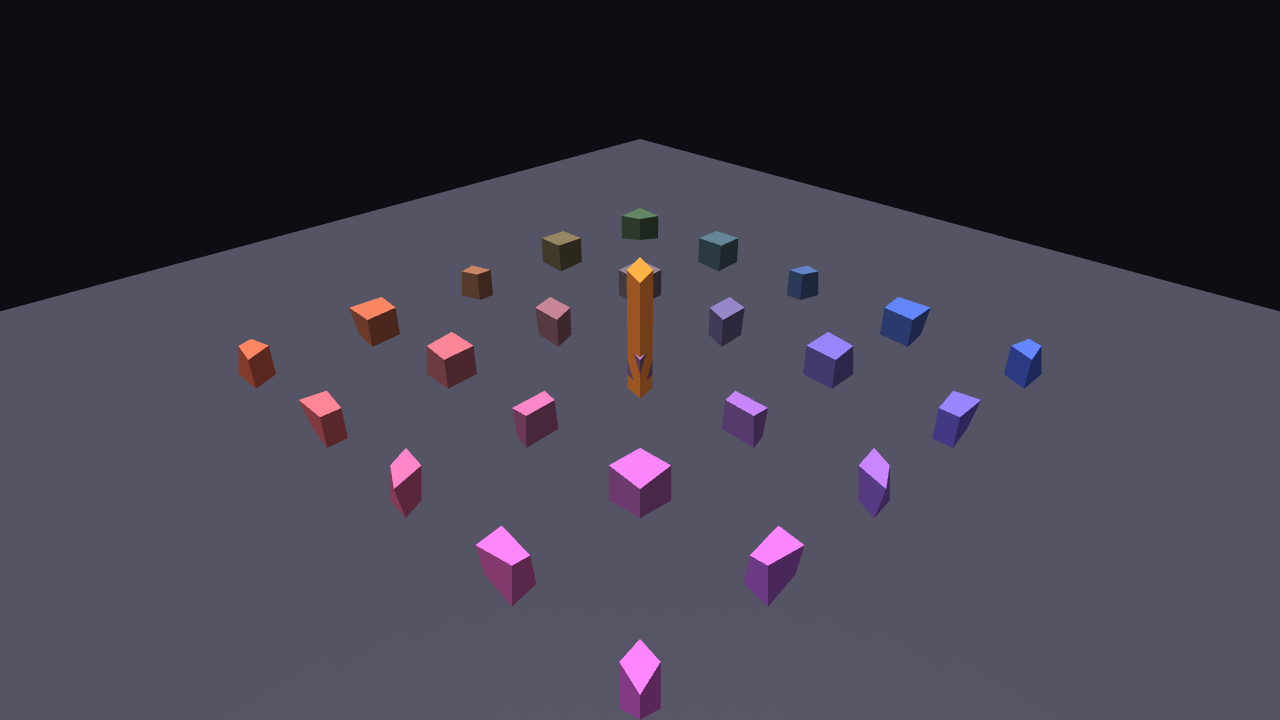
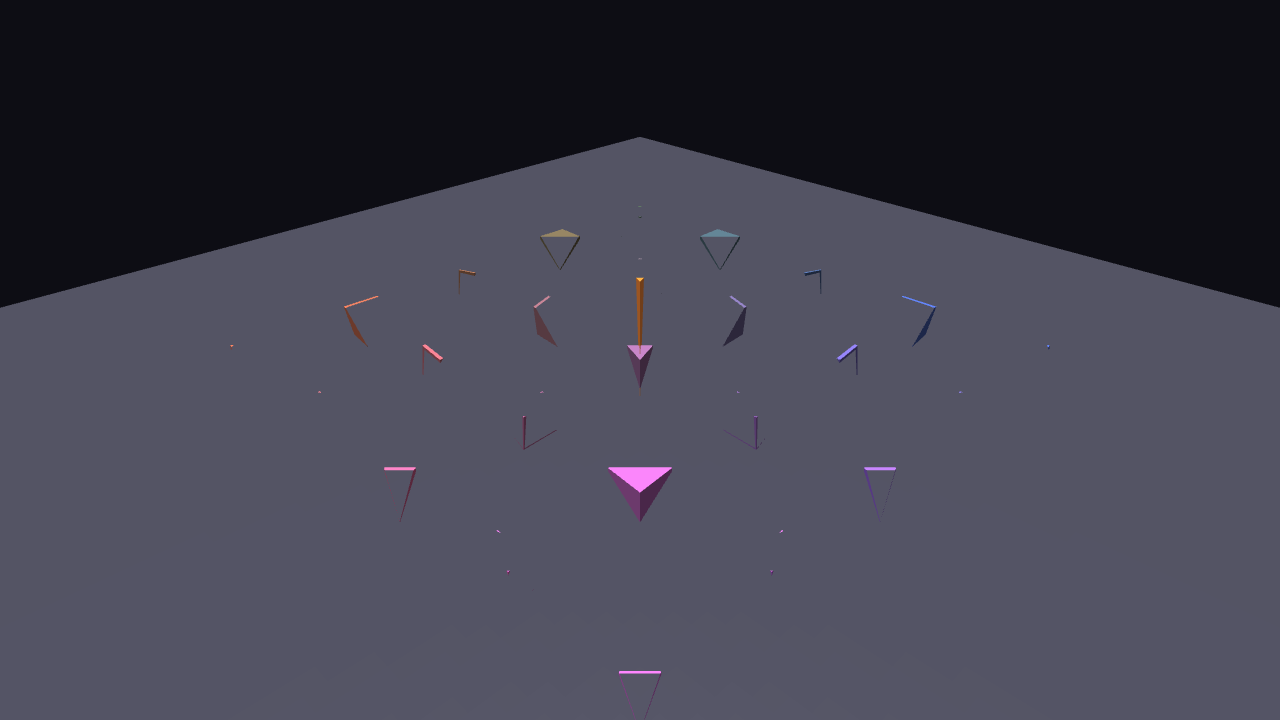
BJS scenes 200/201: enable reverse-Z to match Lite's depth setup
Lite always uses a reverse-Z depth buffer (near=1, far=0). The BJS
reference scenes were using BJS's default forward-Z, so depth precision
profiles diverged. With reverse-Z now enabled on both BJS scenes via
'engine.useReverseDepthBuffer = true' (a settable property on
AbstractEngine — not a constructor option in @user/core@9.5.0),
the two stacks align on depth handling.

Result:
- Scene 201 (HPM+FO ↔ BJS useLargeWorldRendering): MAD = 0.000 (unchanged,
  was already bit-identical; reverse-Z makes the comparison structurally
  correct rather than just coincidentally matching).
- Scene 200 still skipped (F32 multiplication non-associativity issue
  persists regardless of depth mode).

diff --git a/lab/src/bjs/scene201.ts b/lab/src/bjs/scene201.ts
@@ -28,9 +28,11 @@ const OFFSET = 5_000_000;
 (async function () {
     const __initStart = performance.now();
     const canvas = document.getElementById("renderCanvas") as HTMLCanvasElement;
-    // The ONE diff vs scene200: enable BJS's large-world-rendering mode.
+    // The diff vs scene200: enable BJS's large-world-rendering mode.
     const engine = new WebGPUEngine(canvas, { antialias: true, adaptToDeviceRatio: true, useLargeWorldRendering: true });
     await engine.initAsync();
+    // Lite always uses reverse-Z; match it on the BJS reference so the depth-precision profile aligns.
+    engine.useReverseDepthBuffer = true;
 
     const scene = new Scene(engine);
     scene.clearColor = new Color4(0.05, 0.05, 0.08, 1);

diff --git a/lab/src/bjs/scene200.ts b/lab/src/bjs/scene200.ts
@@ -31,6 +31,8 @@ const OFFSET = 5_000_000;
     const canvas = document.getElementById("renderCanvas") as HTMLCanvasElement;
     const engine = new WebGPUEngine(canvas, { antialias: true, adaptToDeviceRatio: true });
     await engine.initAsync();
+    // Lite always uses reverse-Z; match it on the BJS reference so the depth-precision profile aligns.
+    engine.useReverseDepthBuffer = true;
 
     const scene = new Scene(engine);
     scene.clearColor = new Color4(0.05, 0.05, 0.08, 1);